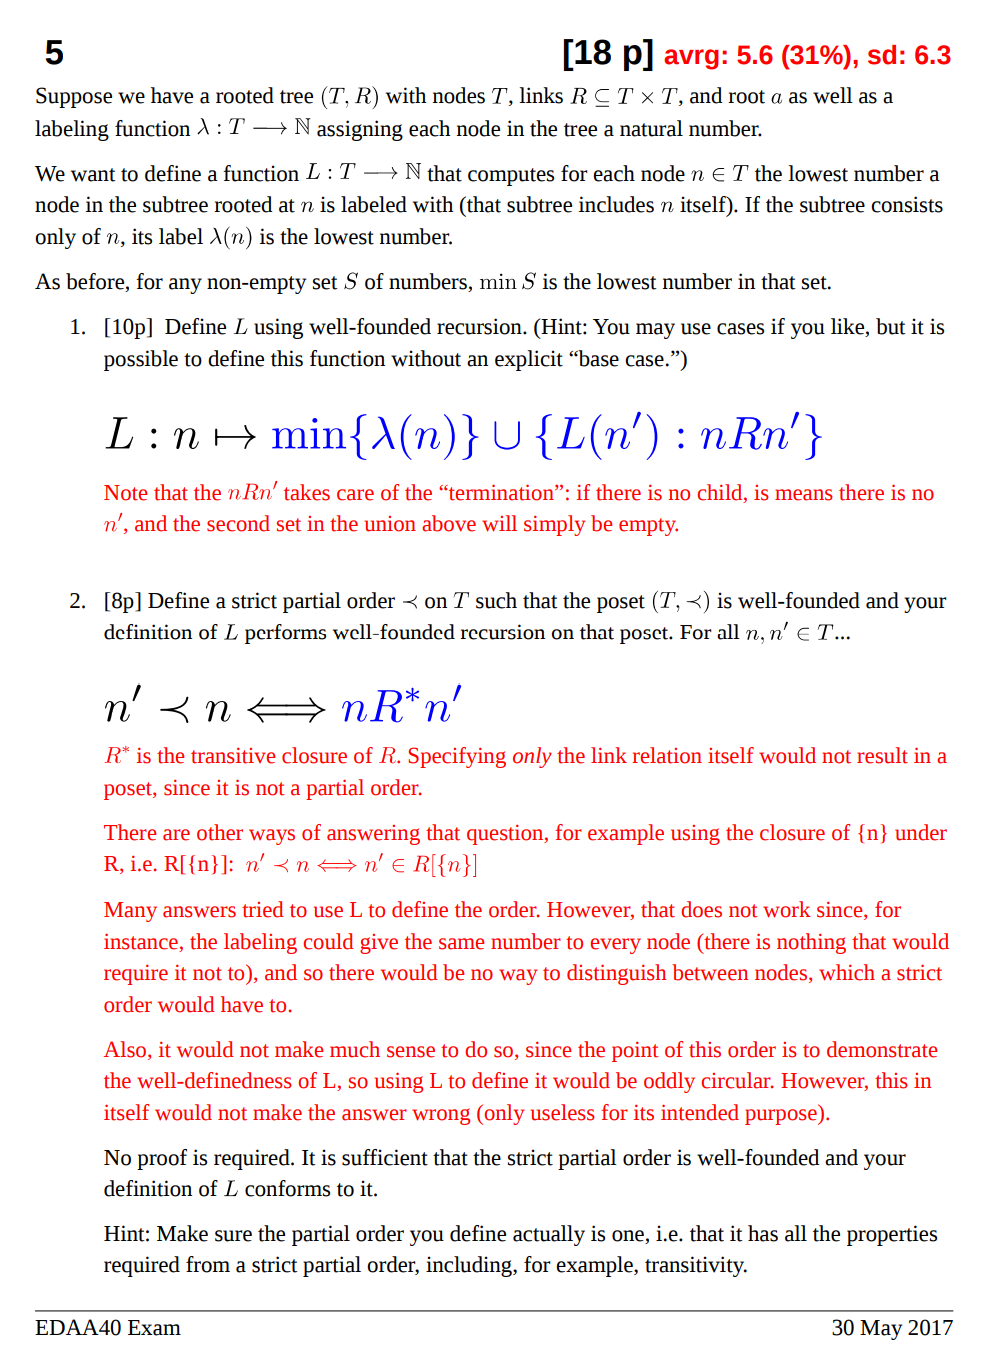
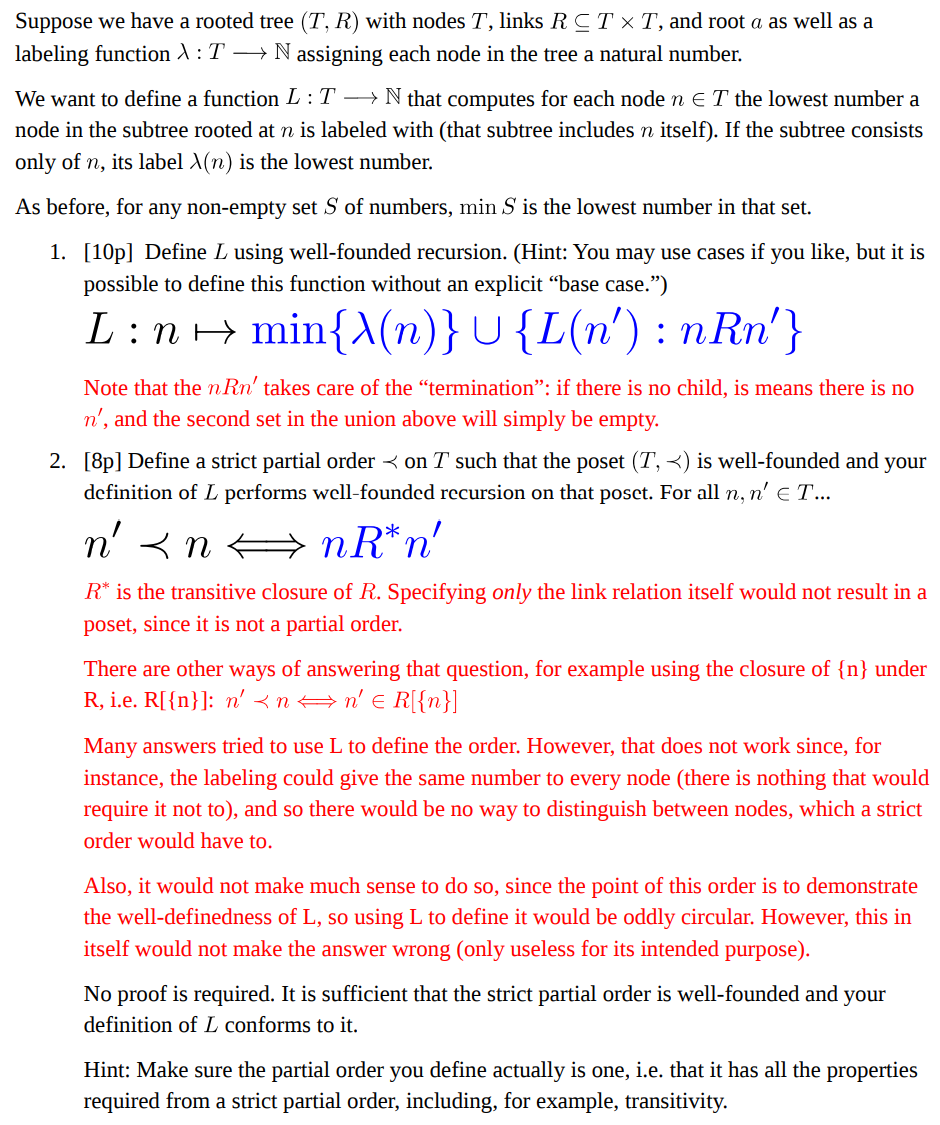
cropped solutions

Changed region(s): [[0.0, 0.0, 0.9872, 0.9956]]

diff --git a/main.tex b/main.tex
@@ -154,16 +154,11 @@ When computing the image, we treat the last element of a tuple as the `output'.
 
 \image{2017_1/2017a/uppg3.png}
 \image{2017_1/2017a/uppg5.png}
-\image{2017_1/2017a/uppg4-no-crop.png}
-\image{2017_1/2017a/4-help.png}
-\image{misc/2018-2-2-q.png}
-\image{misc/2018-2-2-s.png}
+\image{2017_1/2017a/uppg4.png}
+\image{misc/2018-2-2.png}
 \image{misc/vertecies-uppg.png}
-\image{misc/vertecies-sol.png}
 \image{misc/languages.png}
 \image{misc/5-1.png}
-\image{misc/5-2.png}
-
 
 \end{document}
 
